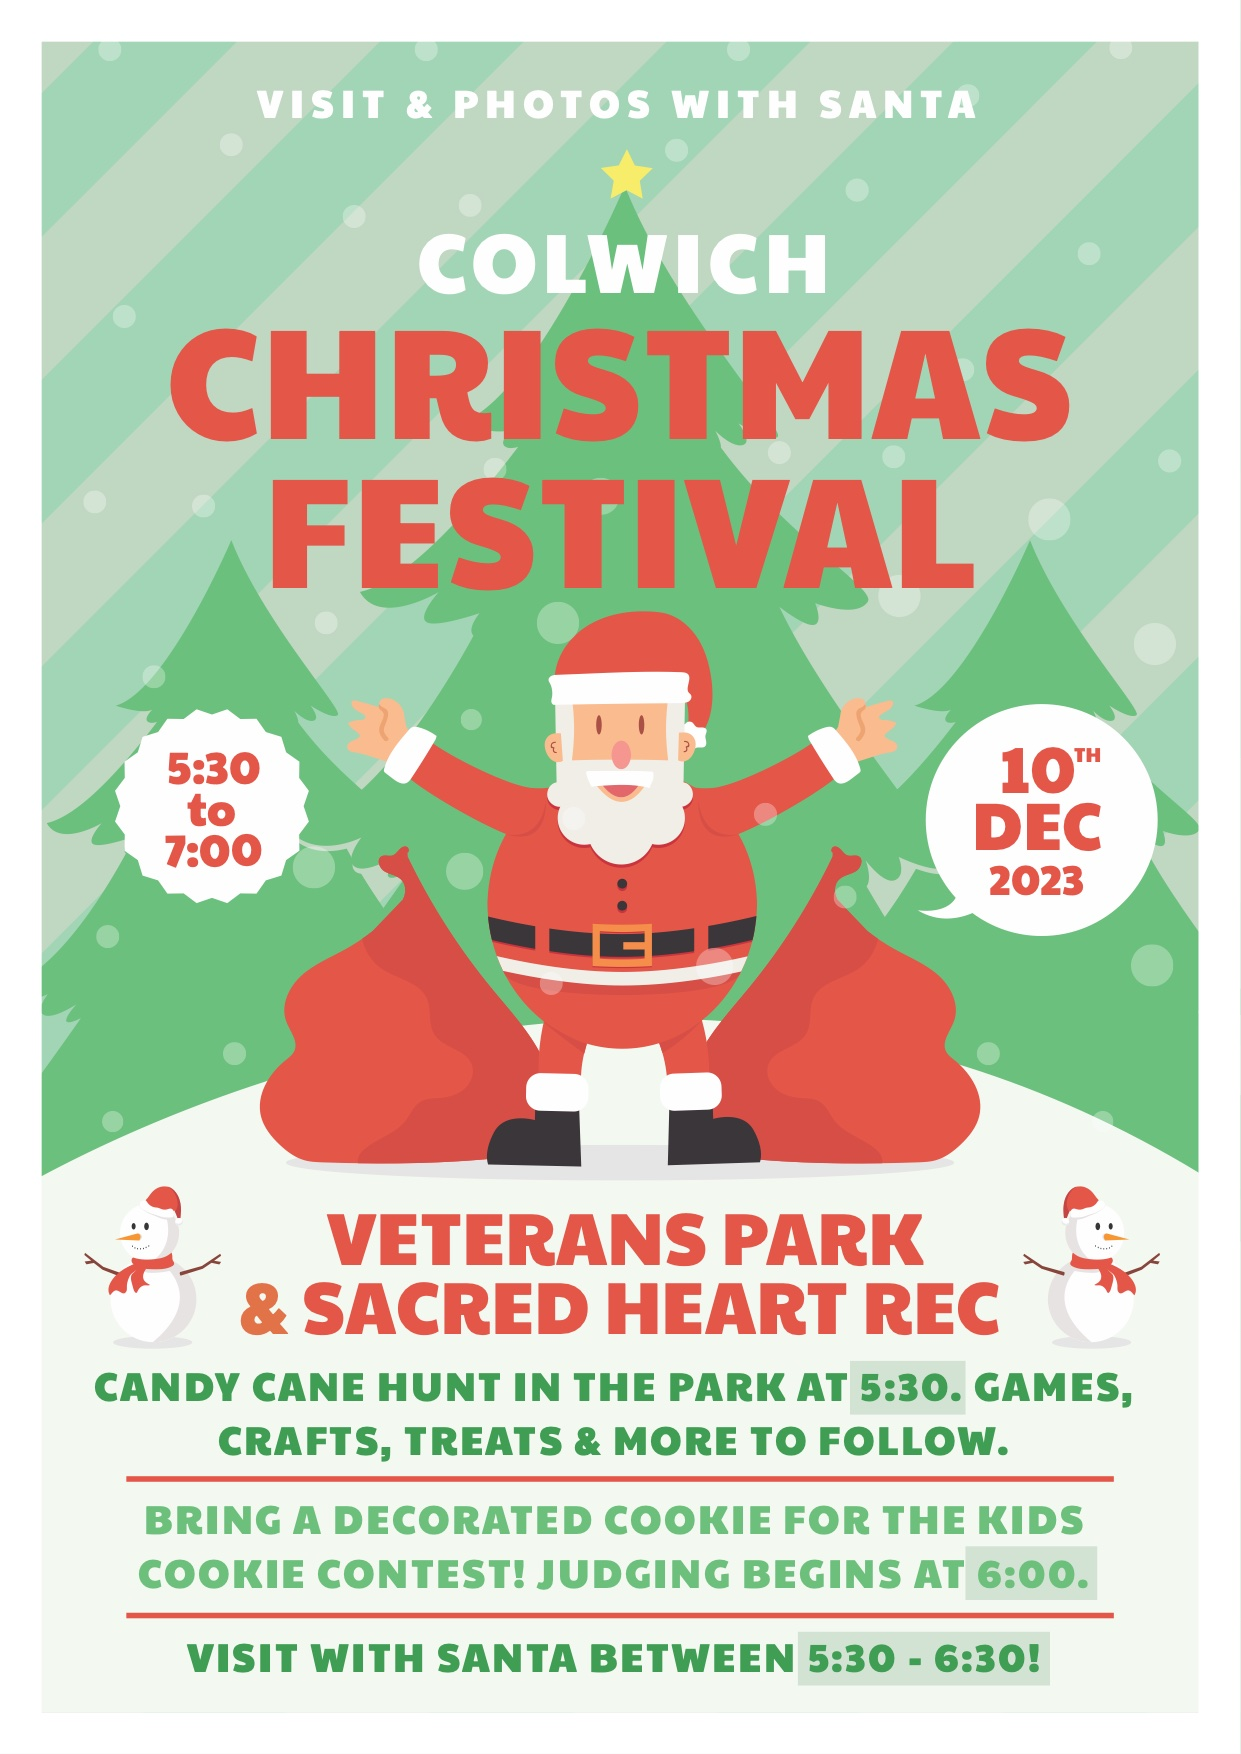
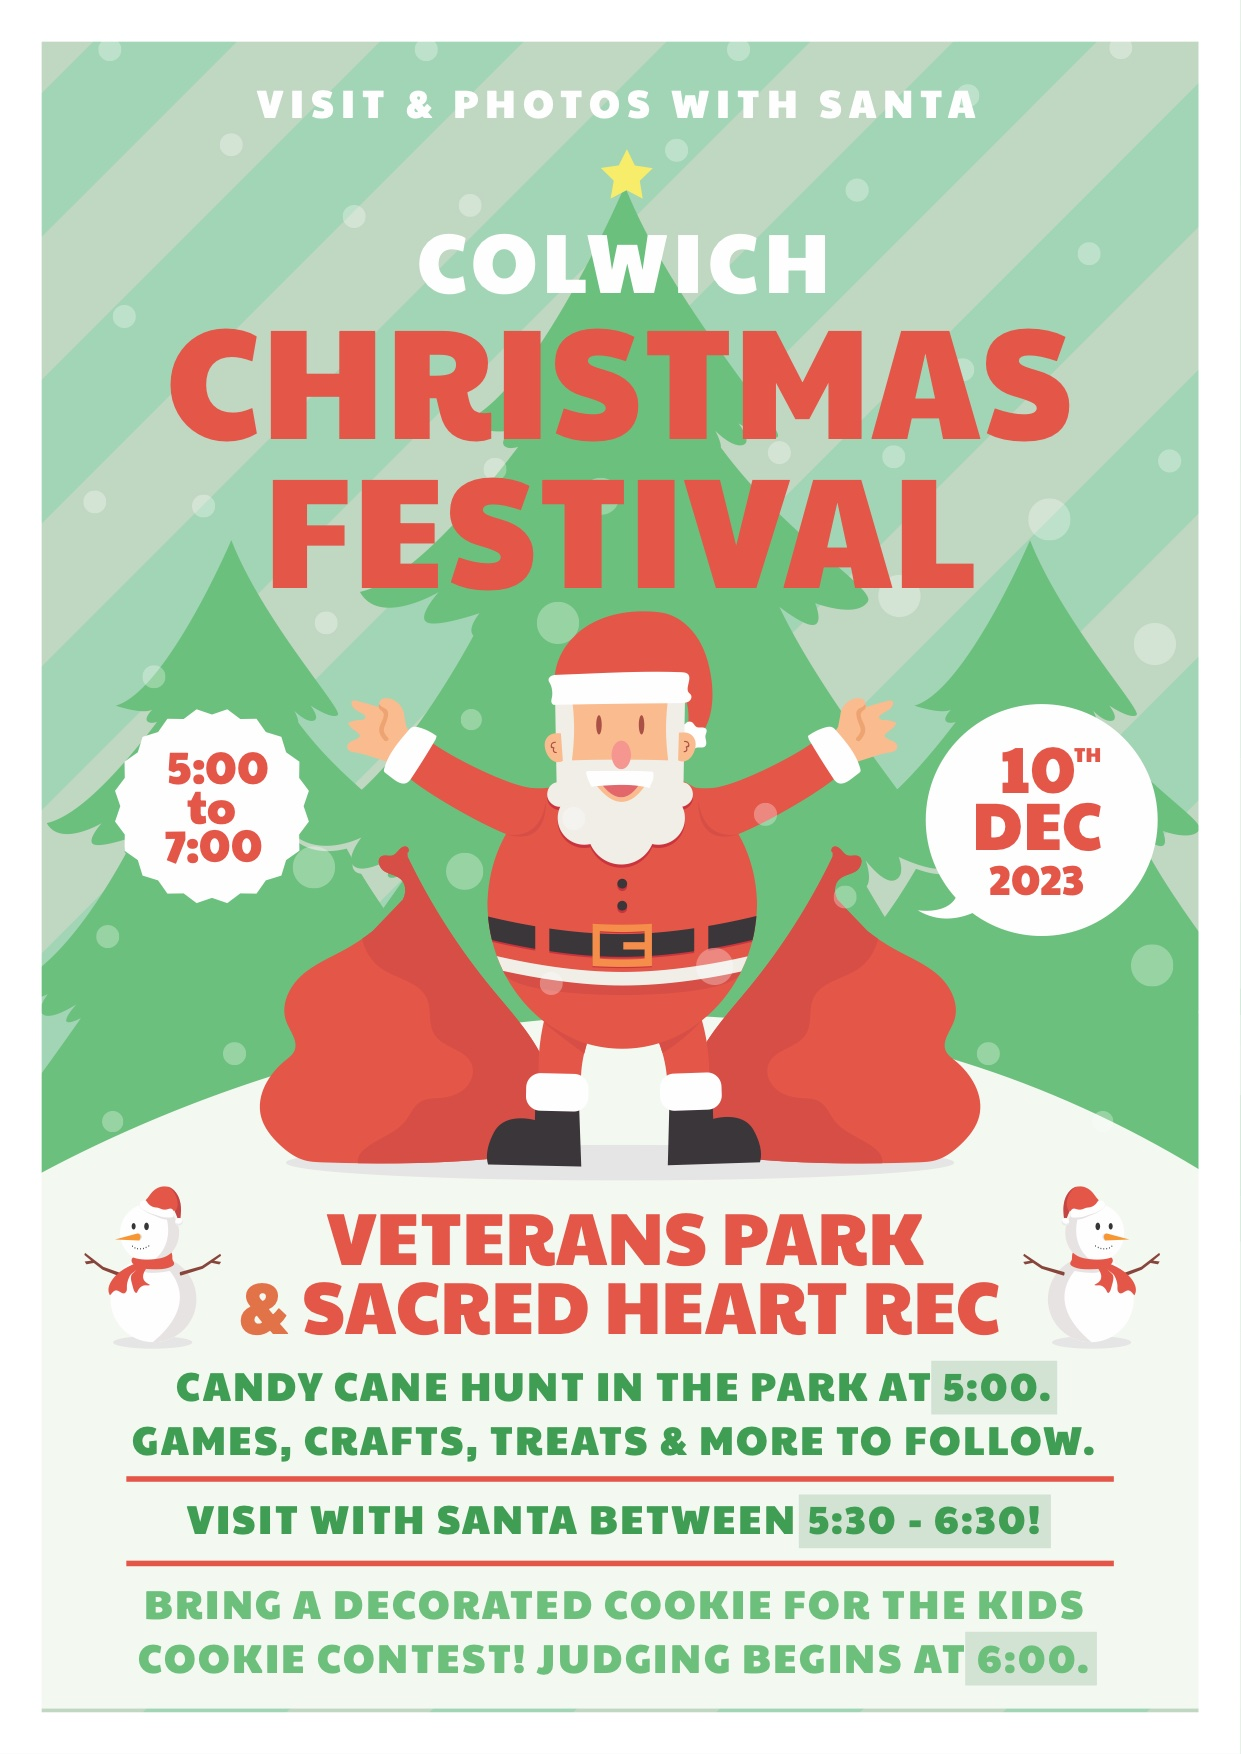
xmas change

Changed region(s): [[0.0612, 0.7697, 0.9186, 0.9852], [0.1225, 0.431, 0.2143, 0.4926]]

diff --git a/content/events/christmas.md b/content/events/christmas.md
@@ -3,7 +3,7 @@ page_status: active
 title: Colwich Christmas Festival 🎄
 description: Come out to Veterans Park and Sacred Heart REC for Santa + Activities!
 type: events
-event_date: 2023-12-10 5:30:00 +0000
+event_date: 2023-12-10 5:00:00 +0000
 url: "/christmas"
 fullUrl: "https://colwichhso.com/christmas"
 pageImage: "https://colwichhso.com/images/flyers/ColwichChristmasOG.jpg"
@@ -26,4 +26,4 @@ polaroid:
 - /images/flyers/ColwichChristmasWeb.jpg
 - /images/flyers/ColwichChristmasWeb.jpg
 ---
-Candy Cane Hunt begins in the park at 5:30. Games, crafts, treats and more to follow. Bring in a decorated cookie for the kids cookie contest. Judging begins at 6:00. Visit with Santa from 5:30 - 6:30!
+Candy Cane Hunt begins in the park at 5:00. Games, crafts, treats and more to follow. Bring in a decorated cookie for the kids cookie contest. Judging begins at 6:00. Visit with Santa from 5:30 - 6:30!

diff --git a/content/faq/christmas/q1.md b/content/faq/christmas/q1.md
@@ -3,4 +3,4 @@ question: What is the Colwich Christmas Festival?
 type: faq
 faq_category: christmas
 ---
-The community has gotten together to put on a fun, family-friendly event where you can participate in a candy cane hunt in the park at 5:30 pm followed by games, crafts, treates and more.  Over in the REC, you can get pictures and visit with Santa Claus!  There will also be a kids cookie contest, so bring in your best decorated cookie for judging by 6:00.
+The community has gotten together to put on a fun, family-friendly event where you can participate in a candy cane hunt in the park at 5:00 pm followed by games, crafts, treates and more.  Over in the REC, you can get pictures and visit with Santa Claus!  There will also be a kids cookie contest, so bring in your best decorated cookie for judging by 6:00.

diff --git a/content/faq/christmas/q5.md b/content/faq/christmas/q5.md
@@ -3,7 +3,7 @@ question: Where is it located?
 type: faq
 faq_category: christmas
 ---
-5:30 PM: Candy Cane Hunt
+5:00 PM: Candy Cane Hunt
 
 5:30-6:30 PM: Photos with Santa Claus in Sacred Heart REC
 
